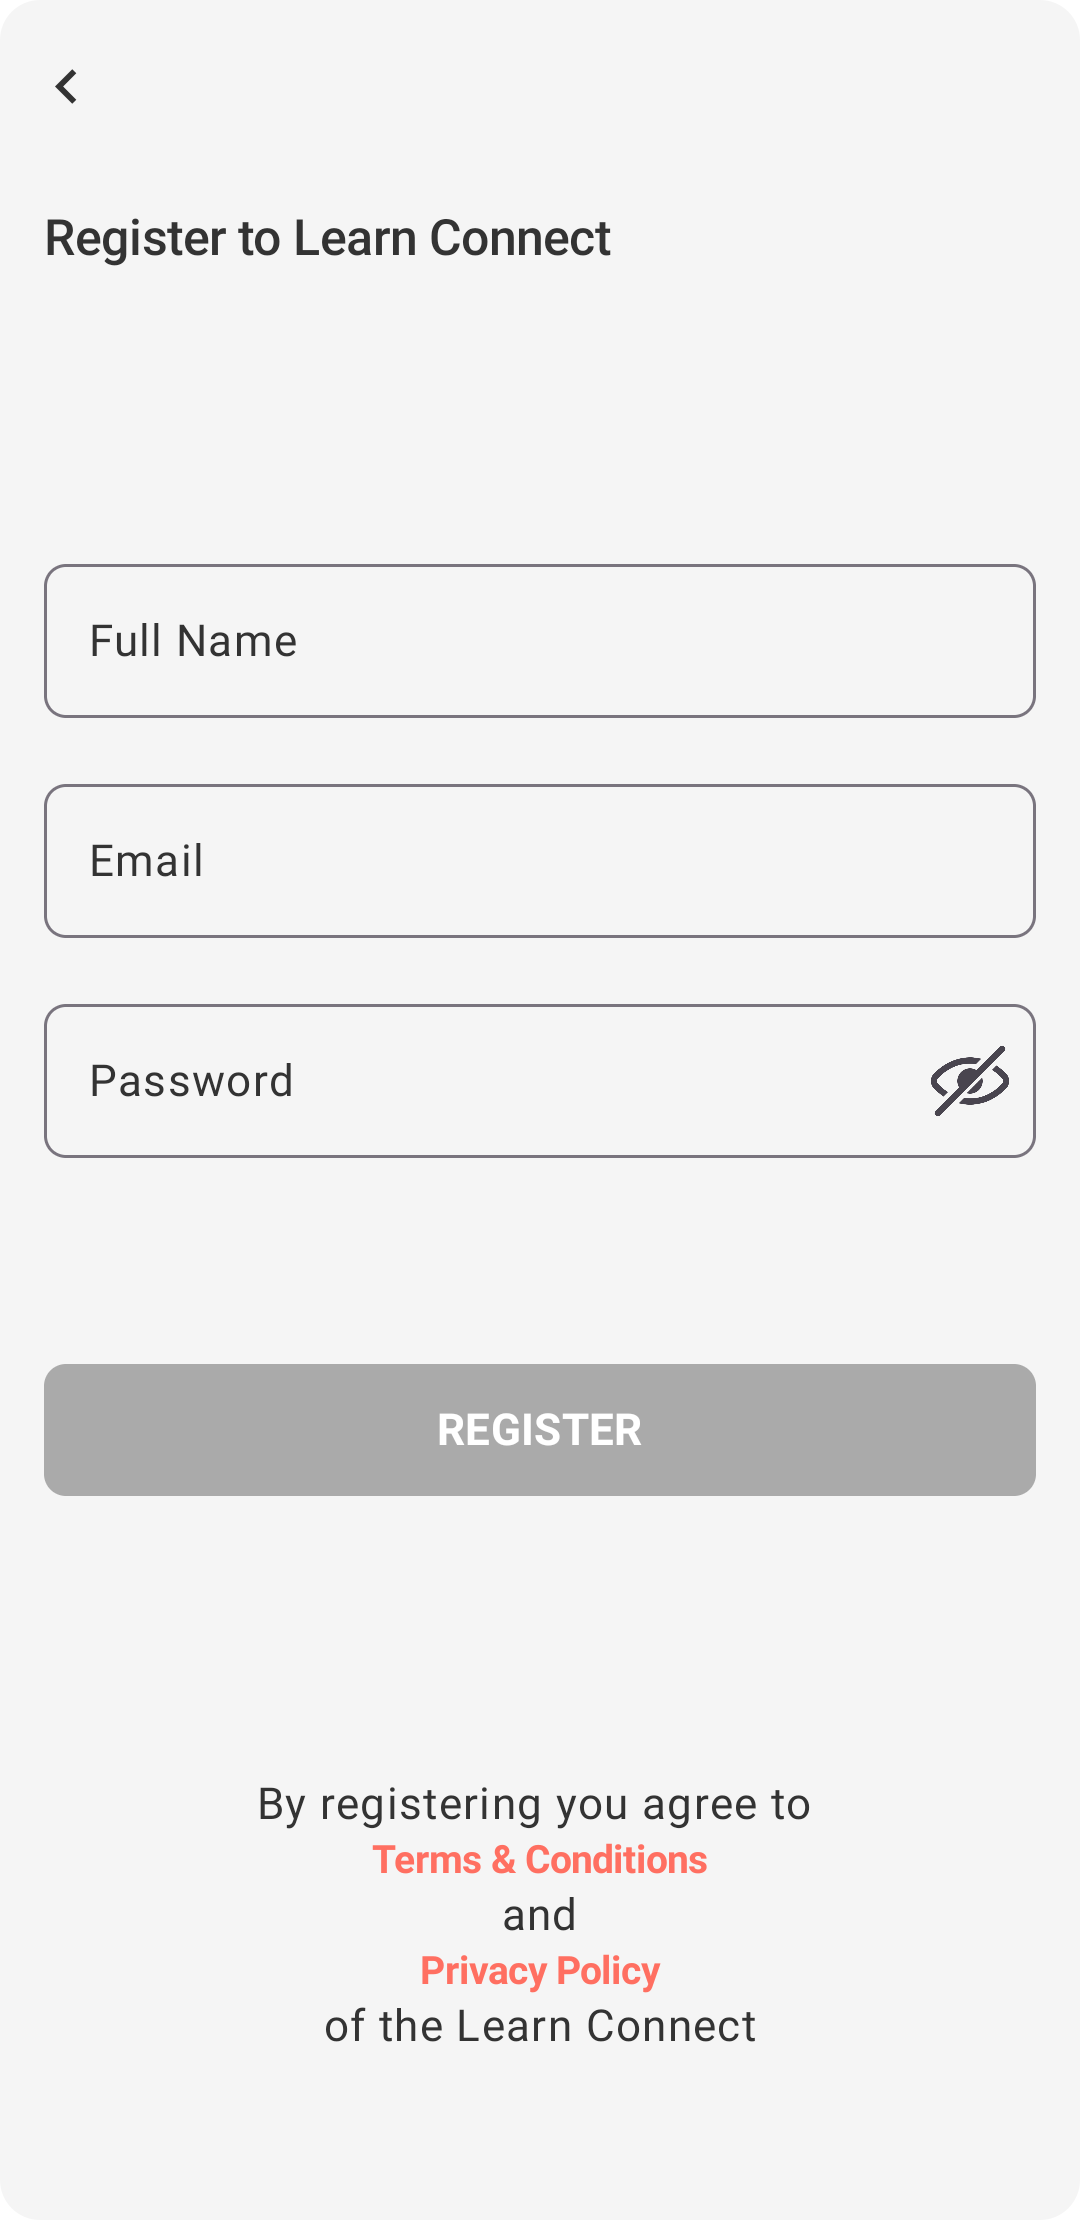
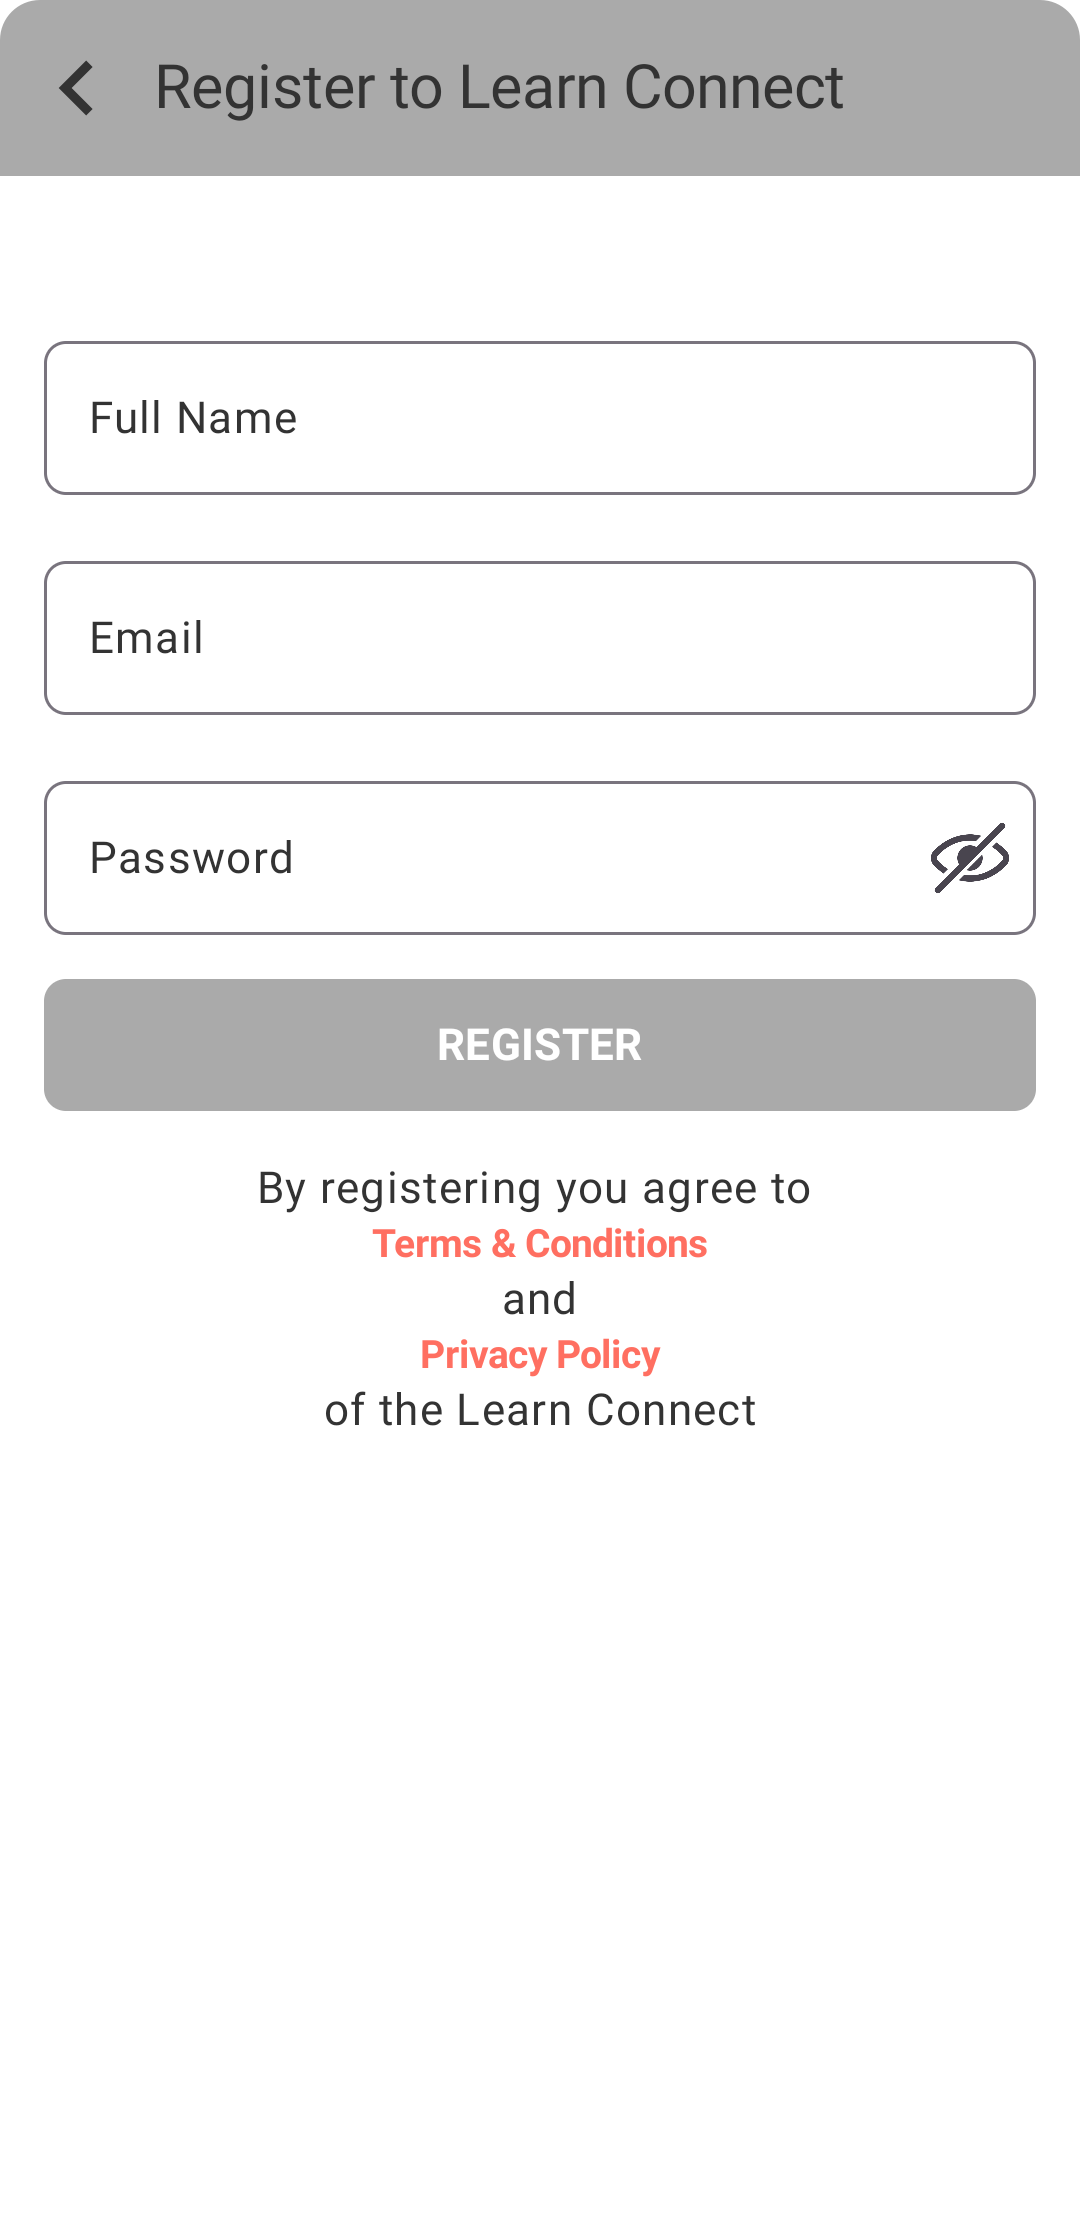
Screens design

diff --git a/app/src/main/java/com/example/learnconnect/ui/RegisterScreen.kt b/app/src/main/java/com/example/learnconnect/ui/RegisterScreen.kt
@@ -1,9 +1,11 @@
 package com.example.learnconnect.ui
 
 import androidx.compose.foundation.background
+import androidx.compose.foundation.layout.Arrangement
 import androidx.compose.foundation.layout.Box
 import androidx.compose.foundation.layout.Column
 import androidx.compose.foundation.layout.Spacer
+import androidx.compose.foundation.layout.fillMaxHeight
 import androidx.compose.foundation.layout.fillMaxSize
 import androidx.compose.foundation.layout.fillMaxWidth
 import androidx.compose.foundation.layout.height
@@ -15,12 +17,16 @@ import androidx.compose.material.icons.automirrored.filled.KeyboardArrowLeft
 import androidx.compose.material3.AlertDialog
 import androidx.compose.material3.Button
 import androidx.compose.material3.ButtonDefaults
+import androidx.compose.material3.ExperimentalMaterial3Api
 import androidx.compose.material3.Icon
 import androidx.compose.material3.IconButton
 import androidx.compose.material3.MaterialTheme
 import androidx.compose.material3.OutlinedTextField
+import androidx.compose.material3.Scaffold
 import androidx.compose.material3.Text
 import androidx.compose.material3.TextButton
+import androidx.compose.material3.TopAppBar
+import androidx.compose.material3.TopAppBarDefaults
 import androidx.compose.runtime.Composable
 import androidx.compose.runtime.getValue
 import androidx.compose.runtime.mutableStateOf
@@ -41,7 +47,26 @@ import com.example.learnconnect.R
 import com.example.learnconnect.viewModels.RegisterViewModel
 
 @Composable
-fun RegisterScreen(onNavigateToLogin: () -> Unit, viewModel: RegisterViewModel = hiltViewModel()) {
+fun RegisterScreen(onNavigateToLogin: () -> Unit,viewModel: RegisterViewModel = hiltViewModel() ) {
+
+
+    Scaffold(
+        topBar = { RegisterTopBar(onNavigateToLogin) },
+        bottomBar = {},
+        content = { paddingValues ->
+            RegisterContent(
+                onNavigateToLogin = onNavigateToLogin,
+                viewModel = viewModel,
+                modifier = Modifier.padding(paddingValues) // paddingValues ile içeriği düzenler
+            )
+        }
+    )
+
+}
+@Composable
+fun RegisterContent(onNavigateToLogin: () -> Unit,viewModel:RegisterViewModel, modifier: Modifier = Modifier,
+)
+{
     var username by remember { mutableStateOf("") }
     var email by remember { mutableStateOf("") }
     var password by remember { mutableStateOf("") }
@@ -51,98 +76,63 @@ fun RegisterScreen(onNavigateToLogin: () -> Unit, viewModel: RegisterViewModel =
     var showErrorDialog by remember { mutableStateOf(false) }
     var errorMessage by remember { mutableStateOf("") }
 
-    Box(
-        modifier = Modifier
-            .fillMaxSize()
-            .background(MaterialTheme.colorScheme.surface)
-    ) {
-
-        IconButton(onClick = {
-
-        }) {
-
-            Icon(
-                imageVector = Icons.AutoMirrored.Filled.KeyboardArrowLeft,
-                contentDescription = "Back",
-                tint = MaterialTheme.colorScheme.onSurface,
-                modifier = Modifier
-                    .size(60.dp)
-                    .align(Alignment.TopStart)
-                    .padding(top = 15.dp)
-            )
-        }
-
         Column(
-            modifier = Modifier
-                .fillMaxWidth()
-                .padding(16.dp)
-                .padding(top = 60.dp),
-            horizontalAlignment = Alignment.CenterHorizontally
+            modifier = Modifier.fillMaxHeight().padding(16.dp),
+            horizontalAlignment = Alignment.CenterHorizontally,
         ) {
-
-            Text(
-                text = "Register to Learn Connect",
-                style = TextStyle(
-                    fontSize = 18.sp,
-                    fontWeight = FontWeight.Medium,
-                    color = MaterialTheme.colorScheme.onSurface
-                ),
-                modifier = Modifier
-                    .align(Alignment.Start)
-            )
             Spacer(modifier = Modifier.height(100.dp))
 
-            OutlinedTextField(
-                value = username,
-                onValueChange = { newUsername ->
-                    username = newUsername
-                    viewModel.onUsernameChange(username)
-                },
-                label = { Text("Full Name", color = MaterialTheme.colorScheme.onSurface) },
-                modifier = Modifier
-                    .fillMaxWidth(),
-                singleLine = true,
-                shape = RoundedCornerShape(8.dp),
-            )
+                    OutlinedTextField(
+                        value = username,
+                        onValueChange = { newUsername ->
+                            username = newUsername
+                            viewModel.onUsernameChange(username)
+                        },
+                        label = { Text("Full Name", color = MaterialTheme.colorScheme.onSurface) },
+                        modifier = Modifier
+                            .fillMaxWidth(),
+                        singleLine = true,
+                        shape = RoundedCornerShape(8.dp),
+                    )
             Spacer(modifier = Modifier.height(16.dp))
 
-            OutlinedTextField(
-                value = email,
-                onValueChange = { newEmail ->
-                    email = newEmail
-                    viewModel.onEmailChange(newEmail)
-                },
-                label = { Text("Email", color = MaterialTheme.colorScheme.onSurface) },
-                modifier = Modifier.fillMaxWidth(),
-                singleLine = true,
-                shape = RoundedCornerShape(8.dp)
-            )
+                    OutlinedTextField(
+                        value = email,
+                        onValueChange = { newEmail ->
+                            email = newEmail
+                            viewModel.onEmailChange(newEmail)
+                        },
+                        label = { Text("Email", color = MaterialTheme.colorScheme.onSurface) },
+                        modifier = Modifier.fillMaxWidth(),
+                        singleLine = true,
+                        shape = RoundedCornerShape(8.dp)
+                    )
             Spacer(modifier = Modifier.height(16.dp))
 
-            OutlinedTextField(
-                value = password,
-                onValueChange = { newPassword ->
-                    password = newPassword
-                    viewModel.onPasswordChange(newPassword)
-                },
-                label = { Text("Password", color = MaterialTheme.colorScheme.onSurface) },
-                modifier = Modifier.fillMaxWidth(),
-                singleLine = true,
-                shape = RoundedCornerShape(8.dp),
-                visualTransformation = if (isPasswordVisible) VisualTransformation.None else PasswordVisualTransformation(),
-                trailingIcon = {
-                    IconButton(
-                        onClick = { isPasswordVisible = !isPasswordVisible }
-                    ) {
-                        Icon(
-                            painter = painterResource(id = if (isPasswordVisible) R.drawable.open_eye else R.drawable.closed_eye),
-                            contentDescription = if (isPasswordVisible) "Hide password" else "Show password"
-                        )
-                    }
-                }
-            )
+                    OutlinedTextField(
+                        value = password,
+                        onValueChange = { newPassword ->
+                            password = newPassword
+                            viewModel.onPasswordChange(newPassword)
+                        },
+                        label = { Text("Password", color = MaterialTheme.colorScheme.onSurface) },
+                        modifier = Modifier.fillMaxWidth(),
+                        singleLine = true,
+                        shape = RoundedCornerShape(8.dp),
+                        visualTransformation = if (isPasswordVisible) VisualTransformation.None else PasswordVisualTransformation(),
+                        trailingIcon = {
+                            IconButton(
+                                onClick = { isPasswordVisible = !isPasswordVisible }
+                            ) {
+                                Icon(
+                                    painter = painterResource(id = if (isPasswordVisible) R.drawable.open_eye else R.drawable.closed_eye),
+                                    contentDescription = if (isPasswordVisible) "Hide password" else "Show password"
+                                )
+                            }
+                        }
+                    )
 
-            Spacer(modifier = Modifier.height(75.dp))
+            Spacer(modifier = Modifier.height(16.dp))
             if (username.isNotEmpty() && email.isNotEmpty() && password.isNotEmpty()) {
                 buttonColor = MaterialTheme.colorScheme.primary
                 clickable = true
@@ -177,7 +167,7 @@ fun RegisterScreen(onNavigateToLogin: () -> Unit, viewModel: RegisterViewModel =
                     fontWeight = FontWeight.Bold
                 )
             }
-            Spacer(modifier = Modifier.height(100.dp))
+            Spacer(modifier = Modifier.height(16.dp))
             Text(text = "By registering you agree to ", color = MaterialTheme.colorScheme.onBackground)
             Text(
                 text = "Terms & Conditions",
@@ -196,7 +186,6 @@ fun RegisterScreen(onNavigateToLogin: () -> Unit, viewModel: RegisterViewModel =
             )
             Text(text = "of the Learn Connect", color = MaterialTheme.colorScheme.onBackground)
         }
-    }
     if (showErrorDialog) {
         RegisterErrorDialog(errorMessage = errorMessage) {
             showErrorDialog = false
@@ -221,3 +210,28 @@ fun RegisterErrorDialog(errorMessage: String, onDismiss: () -> Unit) {
     )
 }
 
+@OptIn(ExperimentalMaterial3Api::class)
+@Composable
+fun RegisterTopBar(onNavigateToProfile: () -> Unit) {
+    TopAppBar(
+        colors = TopAppBarDefaults.topAppBarColors(
+            containerColor = MaterialTheme.colorScheme.secondary
+        ),
+        title = {
+            Text(
+                text = "Register to Learn Connect",
+                color = MaterialTheme.colorScheme.onSecondary)
+        },
+        navigationIcon = {
+            IconButton(onClick = { onNavigateToProfile() }) {
+                Icon(
+                    imageVector = Icons.AutoMirrored.Filled.KeyboardArrowLeft,
+                    contentDescription = "Back",
+                    tint = MaterialTheme.colorScheme.onSecondary,
+                    modifier = Modifier.size(60.dp)
+                )
+            }
+        },
+        actions = {}
+    )
+}

diff --git a/app/src/main/java/com/example/learnconnect/ui/CourseScreen.kt b/app/src/main/java/com/example/learnconnect/ui/CourseScreen.kt
@@ -1,6 +1,7 @@
 package com.example.learnconnect.ui
 
 import android.util.Log
+import androidx.compose.foundation.background
 import androidx.compose.foundation.clickable
 import androidx.compose.foundation.layout.Arrangement
 import androidx.compose.foundation.layout.Box
@@ -60,7 +61,7 @@ fun CourseScreen(
     navController: NavController,
     courseId: Int,
 ) {
-    val videoViewModel:VideoViewModel= hiltViewModel()
+    val videoViewModel: VideoViewModel = hiltViewModel()
     Log.d("Course Id", courseId.toString())
     val context = LocalContext.current
     val videos by videoViewModel.videos.collectAsState()
@@ -78,13 +79,13 @@ fun CourseScreen(
     course.let { Log.d("Course Data", it.name) }
 
     Scaffold(
-        containerColor = MaterialTheme.colorScheme.background,
         topBar = {
             TopAppBar(colors = TopAppBarDefaults.topAppBarColors(
-                containerColor = MaterialTheme.colorScheme.secondary),
+                containerColor = MaterialTheme.colorScheme.secondary
+            ),
                 title = {
                     Text(
-                        text = course.name,
+                        text = "My Favorite Courses",
                         color = MaterialTheme.colorScheme.onSecondary
                     )
                 },
@@ -155,7 +156,8 @@ fun CourseScreen(
             modifier = Modifier
                 .padding(innerPadding)
                 .padding(16.dp)
-                .fillMaxSize(),
+                .fillMaxSize()
+                .background(MaterialTheme.colorScheme.background),
             verticalArrangement = Arrangement.SpaceBetween
         ) {
             LazyColumn(

diff --git a/app/src/main/java/com/example/learnconnect/ui/CoursesScreen.kt b/app/src/main/java/com/example/learnconnect/ui/CoursesScreen.kt
@@ -2,12 +2,15 @@ package com.example.learnconnect.ui
 
 import android.util.Log
 import androidx.compose.foundation.Image
+import androidx.compose.foundation.background
 import androidx.compose.foundation.layout.Arrangement
 import androidx.compose.foundation.layout.Column
 import androidx.compose.foundation.layout.Row
 import androidx.compose.foundation.layout.Spacer
 import androidx.compose.foundation.layout.fillMaxHeight
 import androidx.compose.foundation.layout.fillMaxSize
+import androidx.compose.foundation.layout.fillMaxWidth
+import androidx.compose.foundation.layout.height
 import androidx.compose.foundation.layout.padding
 import androidx.compose.foundation.layout.size
 import androidx.compose.foundation.layout.width
@@ -85,7 +88,7 @@ fun CoursesContent(
     Column(
         modifier = modifier
             .fillMaxSize()
-            .padding(16.dp)
+            .padding(16.dp).background(MaterialTheme.colorScheme.background)
     ) {
         LazyColumn(
             modifier = Modifier
@@ -137,7 +140,7 @@ fun CourseTopBar() {
 
 @Composable
 fun CoursesBottomBar(onNavigateToProfile: () -> Unit, onNavigateToHome: () -> Unit) {
-    BottomAppBar(
+    BottomAppBar(modifier = Modifier.fillMaxWidth().height(65.dp),
         containerColor = MaterialTheme.colorScheme.secondary
     ) {
         NavigationBar(

diff --git a/app/src/main/java/com/example/learnconnect/ui/FavoriteScreen.kt b/app/src/main/java/com/example/learnconnect/ui/FavoriteScreen.kt
@@ -1,6 +1,7 @@
 package com.example.learnconnect.ui
 
 import android.util.Log
+import androidx.compose.foundation.background
 import androidx.compose.foundation.layout.Arrangement
 import androidx.compose.foundation.layout.Column
 import androidx.compose.foundation.layout.fillMaxHeight
@@ -64,8 +65,7 @@ fun FavoriteCourseTopBar(onNavigateToProfile: () -> Unit) {
         title = {
             Text(
                 text = "My Favorite Courses",
-                color = MaterialTheme.colorScheme.onSecondary
-            )
+                color = MaterialTheme.colorScheme.onSecondary)
         },
         navigationIcon = {
             IconButton(onClick = { onNavigateToProfile() }) {
@@ -98,7 +98,7 @@ fun FavoriteCourseContent(
     Column(
         modifier = modifier
             .fillMaxSize()
-            .padding(16.dp)
+            .padding(16.dp).background(MaterialTheme.colorScheme.background)
     ) {
         LazyColumn(
             modifier = Modifier

diff --git a/app/src/main/java/com/example/learnconnect/ui/HomeScreen.kt b/app/src/main/java/com/example/learnconnect/ui/HomeScreen.kt
@@ -1,6 +1,7 @@
 package com.example.learnconnect.ui
 
 import androidx.compose.foundation.Image
+import androidx.compose.foundation.background
 import androidx.compose.foundation.clickable
 import androidx.compose.foundation.layout.Arrangement
 import androidx.compose.foundation.layout.Box
@@ -116,7 +117,7 @@ fun HomeContent(
     Column(
             modifier = modifier
                 .fillMaxSize()
-                .padding(16.dp)
+                .padding(16.dp).background(MaterialTheme.colorScheme.background)
 
         ) {
             LazyRow(
@@ -162,6 +163,7 @@ fun HomeContent(
 @Composable
 fun HomeBottomBar(onNavigateToProfile: () -> Unit, onNavigateToCourses: () -> Unit) {
         BottomAppBar(
+            modifier = Modifier.fillMaxWidth().height(65.dp),
             containerColor = MaterialTheme.colorScheme.secondary
         ) {
             NavigationBar(

diff --git a/app/src/main/java/com/example/learnconnect/ui/ProfileScreen.kt b/app/src/main/java/com/example/learnconnect/ui/ProfileScreen.kt
@@ -102,7 +102,7 @@ fun ProfileTopBar( ) {
 
 @Composable
 fun ProfileBottomBar(onNavigateToHome: () -> Unit, onNavigateToCourses: () -> Unit) {
-        BottomAppBar(
+        BottomAppBar(modifier = Modifier.fillMaxWidth().height(65.dp),
             containerColor = MaterialTheme.colorScheme.secondary
         ) {
             NavigationBar(
